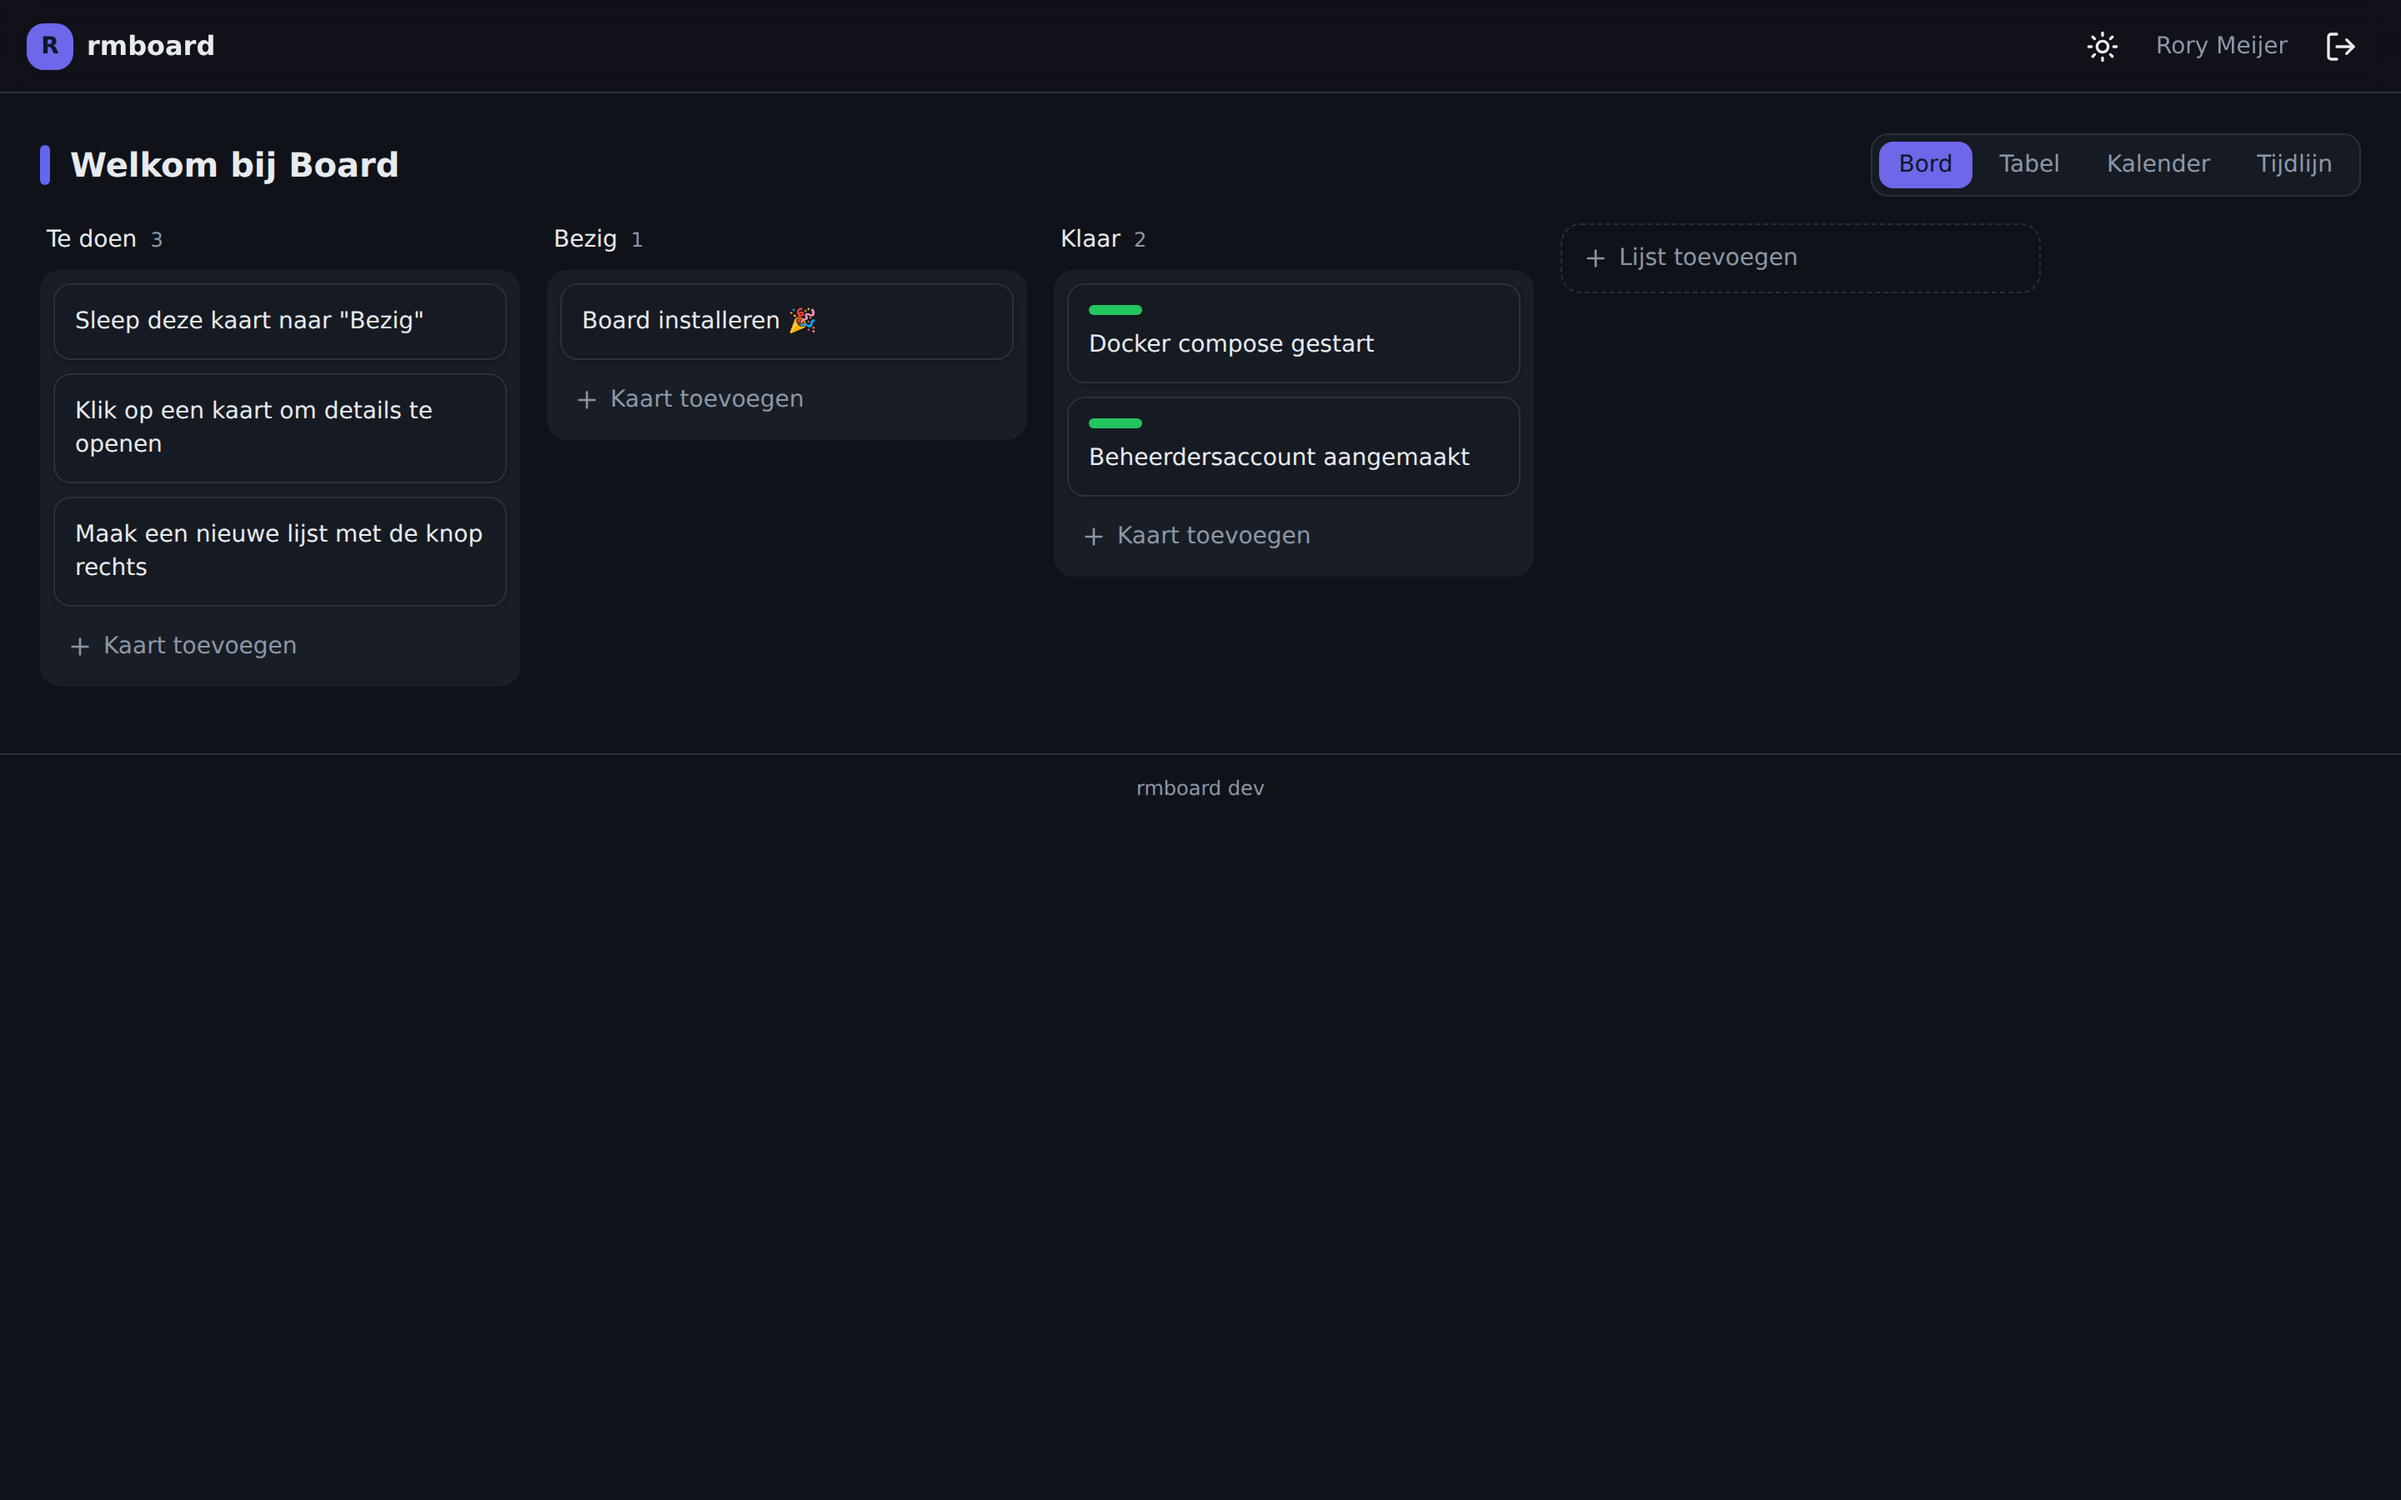
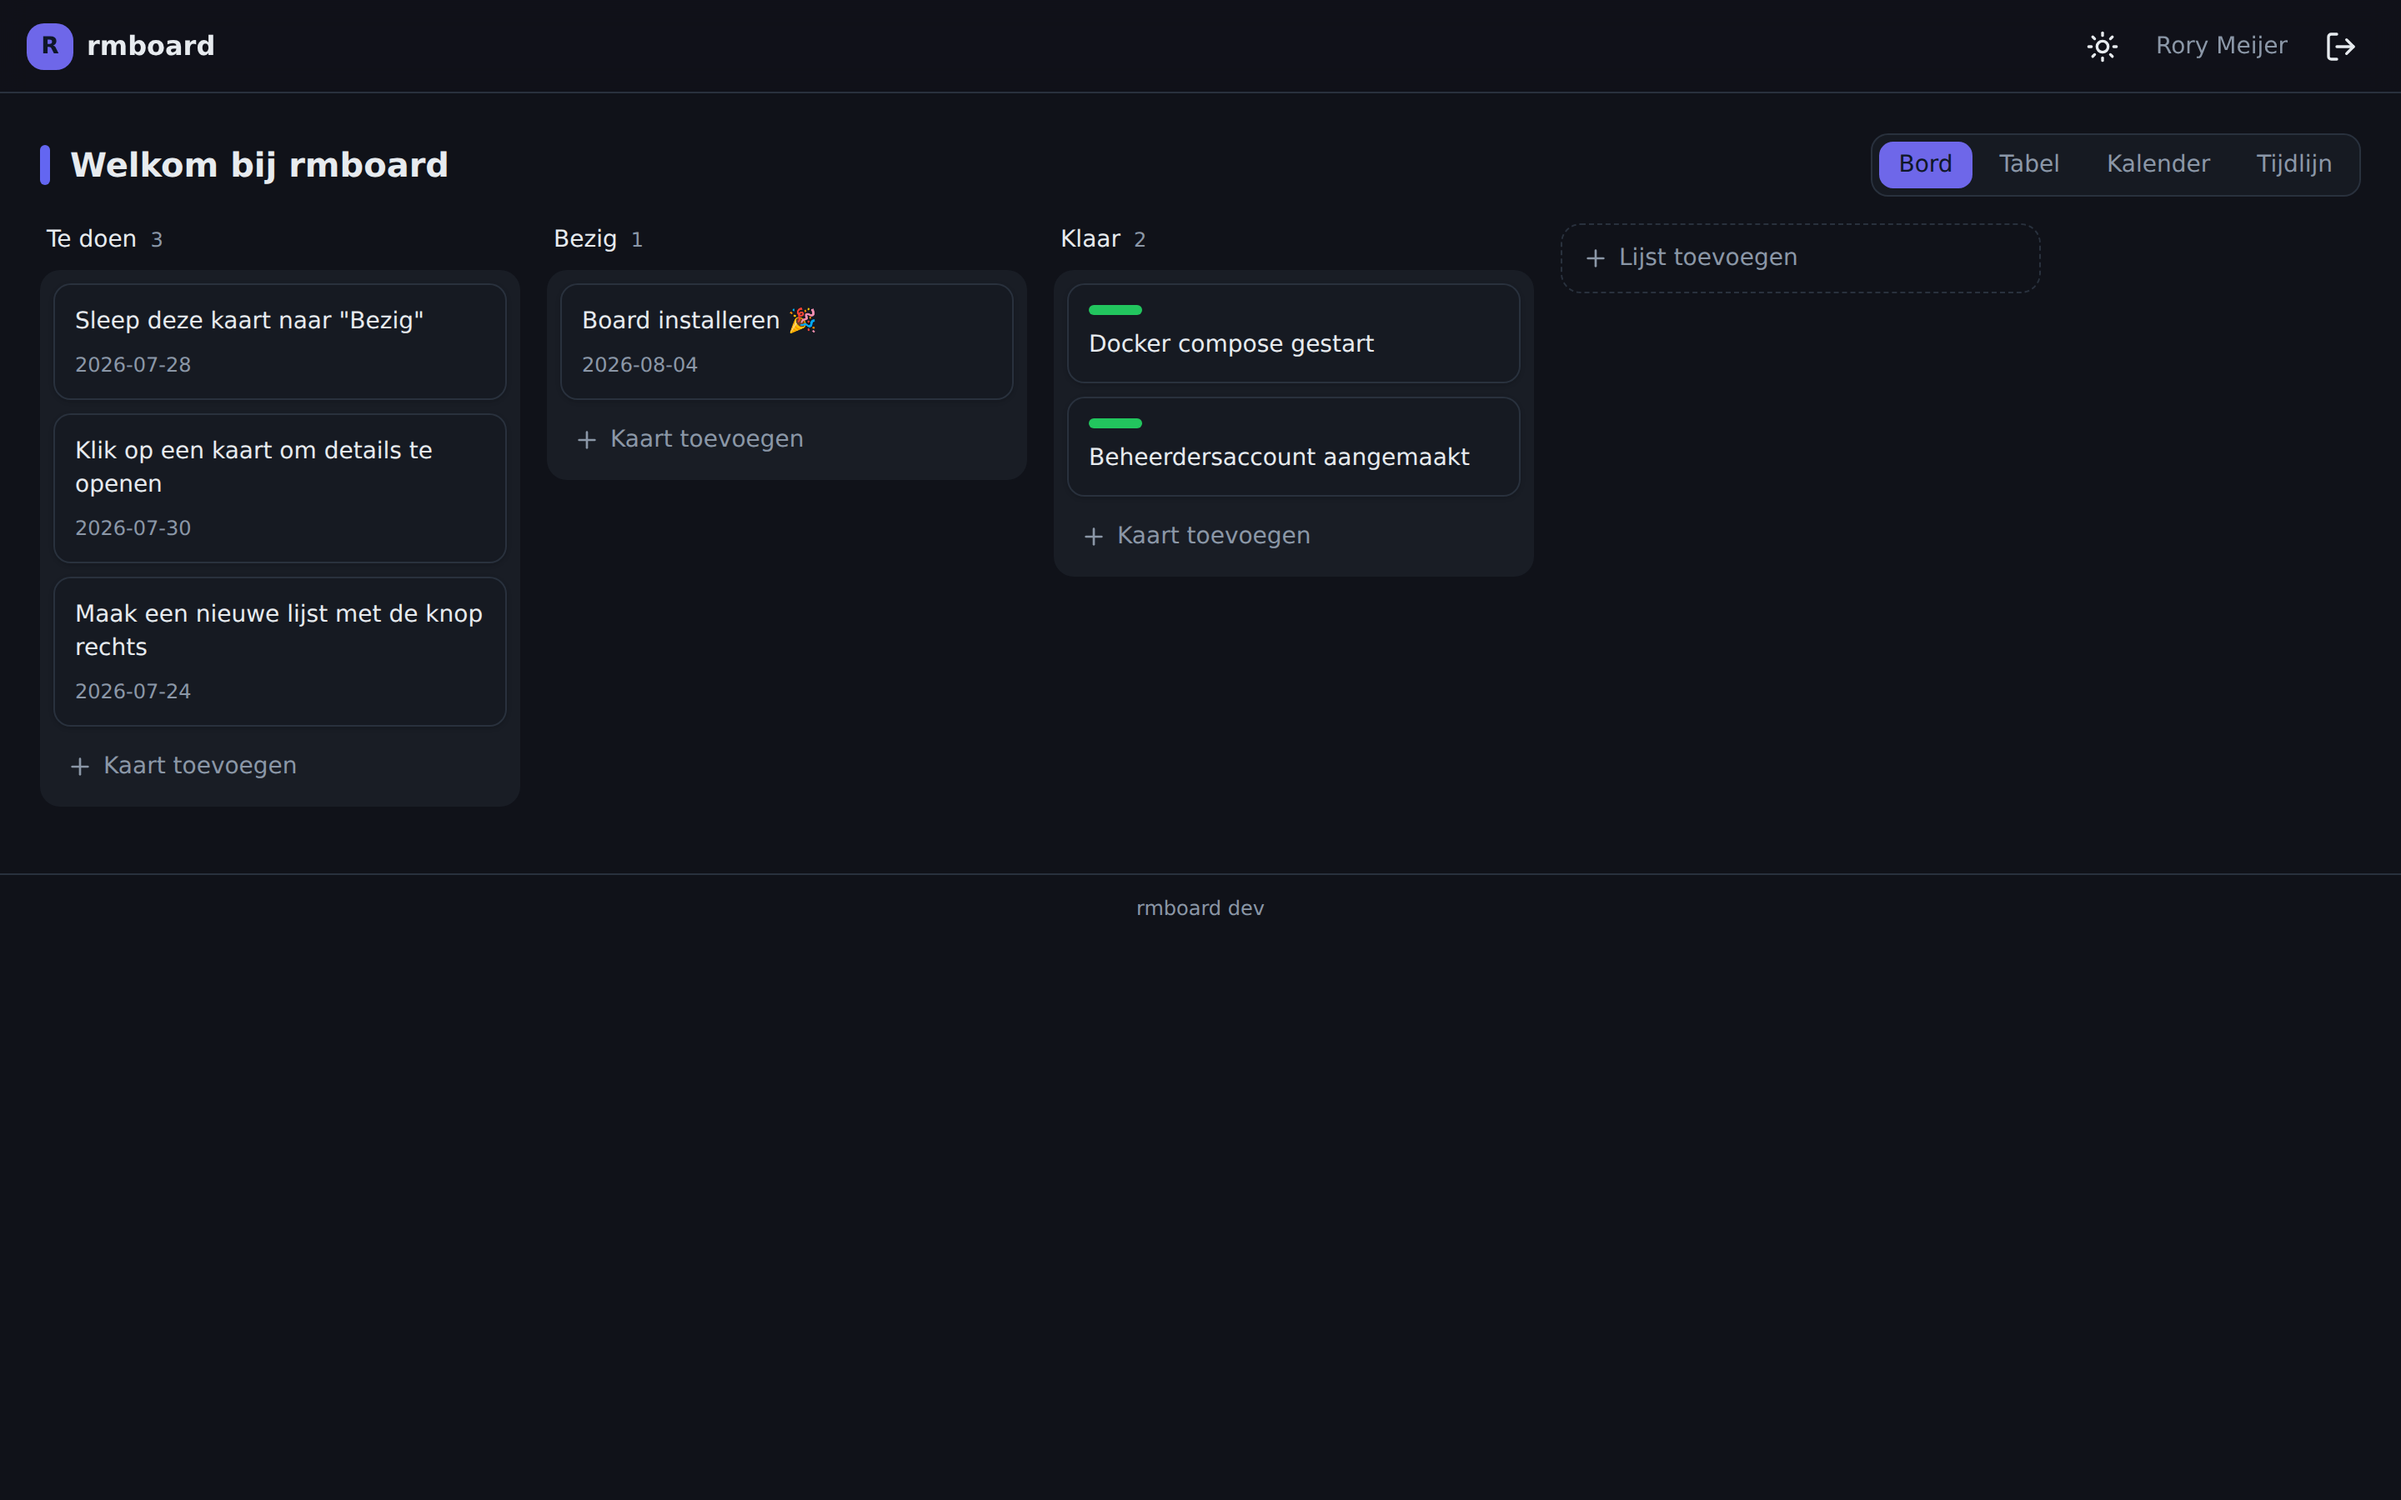
Rond rmboard-branding af en voeg volledige screenshotset toe
- Locale-strings (install.title, license skip-note) en de wizard-standaardnaam
  gebruiken nu rmboard; PHP-strings (install-flash, licentie-flash, API-docs,
  iCal PRODID) idem. Board-entiteit/klasse en de X-Board-* wire-headers blijven.
- Tests bijgewerkt op de nieuwe teksten (ProductionTest, e2e critical-flow).
- Screenshots van alle belangrijke schermen toegevoegd (wizard, login,
  dashboard, bord licht/donker, tabel/kalender/tijdlijn, kaart-detail, mijn
  werk, beheer, licentie) en getoond in de README.

Claude-Session: https://claude.ai/code/session_01HW11eiKLAsXHVNSzCq4Hxd

diff --git a/tests/e2e/critical-flow.spec.ts b/tests/e2e/critical-flow.spec.ts
@@ -11,7 +11,7 @@ test('verse installatie tot en met een kaart aanmaken', async ({ page }) => {
     // 1. Verse start → de installer verschijnt.
     await page.goto('/');
     await expect(page).toHaveURL(/\/install/);
-    await expect(page.getByRole('heading', { name: /Board installeren/i })).toBeVisible();
+    await expect(page.getByRole('heading', { name: /rmboard installeren/i })).toBeVisible();
 
     // 2. Stap "Toepassing" → volgende.
     await page.getByRole('button', { name: /Volgende/i }).click();
@@ -29,10 +29,10 @@ test('verse installatie tot en met een kaart aanmaken', async ({ page }) => {
 
     // 5. Na installatie: dashboard met het demo-board.
     await expect(page).toHaveURL('/');
-    await page.getByText('Welkom bij Board').click();
+    await page.getByText('Welkom bij rmboard').click();
 
     // 6. Board opent met lijsten; maak een kaart aan.
-    await expect(page.getByRole('heading', { name: 'Welkom bij Board' })).toBeVisible();
+    await expect(page.getByRole('heading', { name: 'Welkom bij rmboard' })).toBeVisible();
     const addCard = page.getByRole('button', { name: /Kaart toevoegen/i }).first();
     await addCard.click();
     await page.getByPlaceholder('Titel van de kaart…').fill('E2E testkaart');

diff --git a/resources/js/locales/nl.ts b/resources/js/locales/nl.ts
@@ -1,7 +1,7 @@
 export const nl: Record<string, string> = {
     'app.tagline': 'Modern, self-hosted werkbeheer',
 
-    'install.title': 'Board installeren',
+    'install.title': 'rmboard installeren',
     'install.step.app': 'Toepassing',
     'install.step.admin': 'Beheerder',
     'install.step.license': 'Licentie',
@@ -9,7 +9,7 @@ export const nl: Record<string, string> = {
     'install.license.hint': 'Heb je een licentiesleutel ontvangen? Plak hem hieronder.',
     'install.license.key': 'Licentiesleutel',
     'install.license.placeholder': 'Plak hier je licentiesleutel…',
-    'install.license.skip_note': 'Geen sleutel? Je kunt later een licentie invoeren onder Beheer → Licentie. Zonder geldige licentie blijft Board geblokkeerd.',
+    'install.license.skip_note': 'Geen sleutel? Je kunt later een licentie invoeren onder Beheer → Licentie. Zonder geldige licentie blijft rmboard geblokkeerd.',
     'install.app.name': 'Weergavenaam',
     'install.app.locale': 'Standaardtaal',
     'install.app.timezone': 'Tijdzone',

diff --git a/resources/js/locales/en.ts b/resources/js/locales/en.ts
@@ -1,7 +1,7 @@
 export const en: Record<string, string> = {
     'app.tagline': 'Modern, self-hosted work management',
 
-    'install.title': 'Install Board',
+    'install.title': 'Install rmboard',
     'install.step.app': 'Application',
     'install.step.admin': 'Administrator',
     'install.step.license': 'License',
@@ -9,7 +9,7 @@ export const en: Record<string, string> = {
     'install.license.hint': 'Received a license key? Paste it below.',
     'install.license.key': 'License key',
     'install.license.placeholder': 'Paste your license key…',
-    'install.license.skip_note': 'No key? You can enter a license later under Admin → License. Board stays locked until a valid license is entered.',
+    'install.license.skip_note': 'No key? You can enter a license later under Admin → License. rmboard stays locked until a valid license is entered.',
     'install.app.name': 'Display name',
     'install.app.locale': 'Default language',
     'install.app.timezone': 'Timezone',

diff --git a/resources/js/pages/Install/Wizard.tsx b/resources/js/pages/Install/Wizard.tsx
@@ -28,7 +28,7 @@ export default function Wizard({ locales, defaultLocale, timezones, defaultTimez
     const STEPS: StepKey[] = ['app', 'admin', ...(licensing ? (['license'] as StepKey[]) : []), 'smtp'];
 
     const form = useForm({
-        app_name: 'Board',
+        app_name: 'rmboard',
         locale: defaultLocale,
         timezone: defaultTimezone,
         admin_name: '',

diff --git a/app/Http/Controllers/ApiDocsController.php b/app/Http/Controllers/ApiDocsController.php
@@ -19,9 +19,9 @@ class ApiDocsController extends Controller
         return [
             'openapi' => '3.1.0',
             'info' => [
-                'title' => 'Board API',
+                'title' => 'rmboard API',
                 'version' => (string) config('board.version'),
-                'description' => 'REST API voor Board. Authenticatie via een persoonlijk '
+                'description' => 'REST API voor rmboard. Authenticatie via een persoonlijk '
                     .'API-token (Bearer). Rate limiting per token.',
             ],
             'servers' => [['url' => rtrim((string) config('app.url'), '/').'/api/v1']],
@@ -65,11 +65,11 @@ class ApiDocsController extends Controller
         $json = json_encode($this->spec(), JSON_PRETTY_PRINT | JSON_UNESCAPED_SLASHES);
         $html = <<<HTML
         <!doctype html><html lang="nl"><head><meta charset="utf-8">
-        <title>Board API-documentatie</title>
+        <title>rmboard API-documentatie</title>
         <style>body{font:14px/1.6 system-ui,sans-serif;max-width:900px;margin:2rem auto;padding:0 1rem}
         pre{background:#0b1020;color:#e2e8f0;padding:1rem;border-radius:8px;overflow:auto}</style>
         </head><body>
-        <h1>Board API</h1>
+        <h1>rmboard API</h1>
         <p>OpenAPI 3.1-specificatie. Authenticatie via <code>Authorization: Bearer &lt;token&gt;</code>.</p>
         <pre>{$json}</pre>
         </body></html>

diff --git a/tests/Feature/ProductionTest.php b/tests/Feature/ProductionTest.php
@@ -58,7 +58,7 @@ it('start de OIDC-flow als SSO aan staat', function (): void {
 });
 
 it('serveert de zelf-gehoste API-docs en offline-pagina', function (): void {
-    $this->get('/api/docs')->assertOk()->assertSee('Board API');
+    $this->get('/api/docs')->assertOk()->assertSee('rmboard API');
     $this->get('/api/openapi.json')->assertOk()->assertJsonPath('openapi', '3.1.0');
     $this->get('/offline')->assertOk()->assertSee('offline');
 });

diff --git a/app/Http/Controllers/ExportController.php b/app/Http/Controllers/ExportController.php
@@ -48,7 +48,7 @@ class ExportController extends Controller
 
         $cards = $board->cards()->whereNotNull('due_date')->whereNull('archived_at')->get();
 
-        $lines = ['BEGIN:VCALENDAR', 'VERSION:2.0', 'PRODID:-//Board//NL'];
+        $lines = ['BEGIN:VCALENDAR', 'VERSION:2.0', 'PRODID:-//rmboard//NL'];
         foreach ($cards as $card) {
             $date = $card->due_date?->format('Ymd');
             $lines[] = 'BEGIN:VEVENT';

diff --git a/app/Http/Middleware/EnsureLicensed.php b/app/Http/Middleware/EnsureLicensed.php
@@ -53,7 +53,7 @@ class EnsureLicensed
         $user = $request->user();
         if ($user !== null && $user->is_admin) {
             return redirect()->route('admin.license')
-                ->with('status', 'Voer een geldige licentiesleutel in om Board te activeren.');
+                ->with('status', 'Voer een geldige licentiesleutel in om rmboard te activeren.');
         }
 
         return redirect()->route('license.required');

diff --git a/app/Http/Controllers/InstallController.php b/app/Http/Controllers/InstallController.php
@@ -52,7 +52,7 @@ class InstallController extends Controller
         $request->session()->regenerate();
 
         return redirect()->route('dashboard')
-            ->with('status', 'Welkom bij Board! Je installatie is klaar.');
+            ->with('status', 'Welkom bij rmboard! Je installatie is klaar.');
     }
 
     /**

diff --git a/README.md b/README.md
@@ -10,11 +10,37 @@ geen tracking, geen CDN's.
 
 ## Screenshots
 
-| Bord (licht) | Bord (donker) |
-|---|---|
-| ![Bordweergave, licht thema](docs/screenshots/board-light.png) | ![Bordweergave, donker thema](docs/screenshots/board-dark.png) |
+**Bordweergave** — licht & donker thema:
 
-De weergavenaam (hier `rmboard`) volgt automatisch uit `APP_NAME`.
+| Licht | Donker |
+|---|---|
+| ![Bord, licht thema](docs/screenshots/board-light.png) | ![Bord, donker thema](docs/screenshots/board-dark.png) |
+
+**Weergaves** — tabel, kalender en tijdlijn:
+
+| Tabel | Kalender | Tijdlijn |
+|---|---|---|
+| ![Tabelweergave](docs/screenshots/board-table.png) | ![Kalenderweergave](docs/screenshots/board-calendar.png) | ![Tijdlijnweergave](docs/screenshots/board-timeline.png) |
+
+**Kaart-detail & dashboard:**
+
+| Kaart-detail | Dashboard | Mijn werk |
+|---|---|---|
+| ![Kaart-detail](docs/screenshots/card-modal.png) | ![Dashboard](docs/screenshots/dashboard-light.png) | ![Mijn werk](docs/screenshots/my-work.png) |
+
+**Beheer & toegang:**
+
+| Beheer | Licentie | Inloggen |
+|---|---|---|
+| ![Beheer](docs/screenshots/admin.png) | ![Licentie](docs/screenshots/admin-license.png) | ![Inloggen](docs/screenshots/login-light.png) |
+
+**Installatiewizard** (verschijnt automatisch bij een verse start):
+
+| Toepassing | Beheerder |
+|---|---|
+| ![Wizard, stap toepassing](docs/screenshots/wizard-app-light.png) | ![Wizard, stap beheerder](docs/screenshots/wizard-admin-light.png) |
+
+De weergavenaam (hier `rmboard`) volgt overal automatisch uit `APP_NAME`.
 
 ## Snel starten
 
